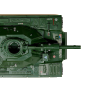
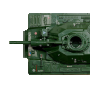
finished graphics

diff --git a/js/draw.js b/js/draw.js
@@ -154,8 +154,7 @@ function draw_main(){
 				angle = round(angle);
 				if(body_rotation(TANKS[i], "angle", TANKS[i].turn_speed, angle, time_gap)){
 					if(TANKS[i].hit_reuse == 0)
-						if(body_rotation(TANKS[i], "fire_angle", TANKS[i].turn_speed, angle)){
-						}
+						body_rotation(TANKS[i], "fire_angle", TANKS[i].turn_speed, angle, time_gap);
 					if(distance < speed2pixels(TANKS[i].speed*speed_multiplier, time_gap)){
 						if(TANKS[i].move_to[0].length == undefined){
 							TANKS[i].move = 0;
@@ -177,6 +176,8 @@ function draw_main(){
 						TANKS[i].y += Math.sin(radiance)*speed2pixels(TANKS[i].speed*speed_multiplier, time_gap);
 						}	
 					}
+				else if(TANKS[i].hit_reuse == 0)
+						body_rotation(TANKS[i], "fire_angle", TANKS[i].turn_speed, angle, time_gap);
 				}
 			//map scrolling
 			if(TANKS[i].id==MY_TANK.id && TANKS[i].move == 1 && MAP_SCROLL_CONTROLL==false){
@@ -414,7 +415,7 @@ function draw_logo_tanks(left, top, change_logo){
 	//clear
 	var img = new Image();	
 	img.src = 'img/map/moon.jpg';
-	canvas_backround.drawImage(img, left, top-7, 477, 52+10, left, top-7, 477, 52+10);
+	canvas_backround.drawImage(img, left, top-7, 500, 52+10, left, top-7, 500, 52+10);
 	if(change_logo==undefined){
 		if(logo_visible==0){
 			logo_visible=1;
@@ -429,19 +430,18 @@ function draw_logo_tanks(left, top, change_logo){
 			}
 		}
 	for(var t in TYPES){
-		//if(TYPES[t].size[1] > 60) continue;
 		var tank_size = TYPES[t].size[1];
 		//base
 		var img = new Image();
 		img.src = 'img/tanks/'+TYPES[t].name+'/'+TYPES[t].icon_base[0];
 		if(TYPES[t].size[1] < max_size)	//normal
-			canvas_backround.drawImage(img, left+t*(477/TYPES.length)+(50-tank_size)/2, top+52-tank_size);
+			canvas_backround.drawImage(img, left+t*round(477/TYPES.length)+(50-tank_size)/2, top+52-tank_size);
 		else	//resized
 			canvas_backround.drawImage(img, 0, 0, tank_size, tank_size, left+t*(477/TYPES.length)+(50-max_size)/2, top+52-max_size, max_size, max_size);
 		//turrent
 		var img = new Image();
 		img.src = 'img/tanks/'+TYPES[t].name+'/'+TYPES[t].icon_top[0];
-		canvas_backround.drawImage(img, left+t*(477/TYPES.length)+(50-tank_size)/2, top+52-tank_size);
+		canvas_backround.drawImage(img, left+t*round(477/TYPES.length)+(50-tank_size)/2, top+52-tank_size);
 		}
 	}
 var score_button_pos = new Array();
@@ -935,6 +935,7 @@ function show_chat(){
 		canvas.fillText(text, 10, bottom-i*gap);
 		}
 	}
+//calculate body and turret rotation
 function body_rotation(obj, str, speed, rot, time_diff){
 	speed = speed * 100 * time_diff/1000;
 	var flag = false;

diff --git a/js/settings-tanks.js b/js/settings-tanks.js
@@ -113,7 +113,7 @@ TYPES.push({
 	turn_speed: 2,
 	size: ['M', 50],
 	preview: 'preview.png',
-	icon_top: ['top1.png', 'top2.png'],
+	icon_top: ['top1.png', 'top2.png'],	
 	icon_base: ['base1.png', 'base2.png'],
 	abilities: [
 		{name: 'Soldiers',	passive: false,		broadcast: 1}, 

diff --git a/README.md b/README.md
@@ -3,7 +3,7 @@
 HTML5 based tank game.
 
 ## Features:
-* 5 tanks
+* 8 tanks and 2 air units
 * 4 maps
 * single player
 * multi player
@@ -17,7 +17,7 @@ HTML5 based tank game.
 * multiplayer requires additional websockets server.
 
 ## Latest News
-* added new map
+* added new map, and more units
 * added soldiers for support in battle
 * add map access from mini map
 * added accuracy
